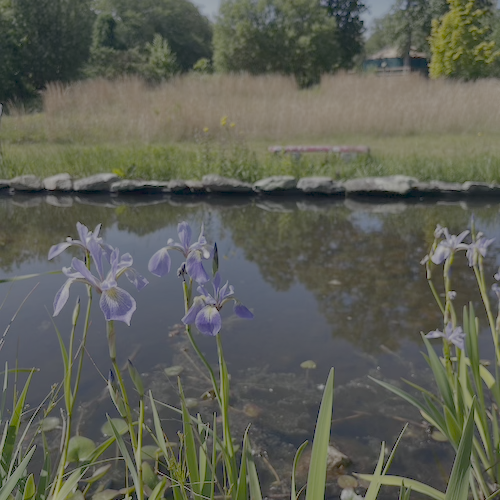
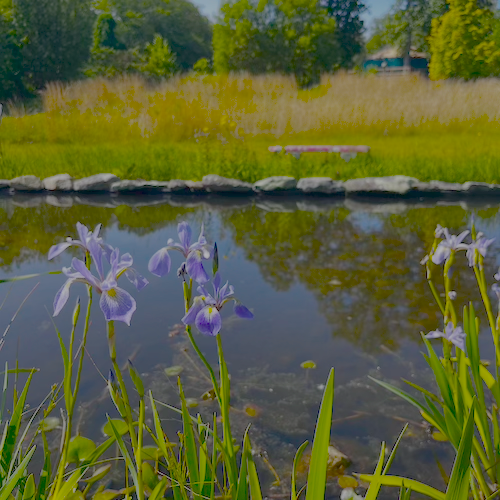
updated events carousel images

diff --git a/_includes/events-carousel.html b/_includes/events-carousel.html
@@ -27,33 +27,31 @@
                     <div class="carousel-inner">
                         <div class="carousel-item active">
                             <img src=
-"https://media.geeksforgeeks.org/wp-content/uploads/20240308154939/html-(1).jpg"
+"{{ site.baseurl }}/assets/img/events/events-carousel/e1.jpg"
                                 class="d-block w-100" 
                                  alt="Slide 1">
                         </div>
 
                         <div class="carousel-item">
                             <img src=
-"https://media.geeksforgeeks.org/wp-content/uploads/20240308154940/js-(1).jpg"
+"{{ site.baseurl }}/assets/img/events/events-carousel/e2.jpg"
                                 class="d-block w-100" 
                                  alt="Slide 2">
                         </div>
 
                         <div class="carousel-item">
                             <img src=
-"https://media.geeksforgeeks.org/wp-content/uploads/20240308154942/web-(1).jpg"
+"{{ site.baseurl }}/assets/img/events/events-carousel/e3.jpg"
                                 class="d-block w-100" 
                                  alt="Slide 4">
                         </div>
 
                         <div class="carousel-item">
                             <img src=
-"https://media.geeksforgeeks.org/wp-content/uploads/20240308154945/web2-(1).jpg"
+"{{ site.baseurl }}/assets/img/events/events-carousel/e4.png"
                                 class="d-block w-100" 
                                  alt="Slide 3">
                         </div>
-
-
                     </div>
                     <button class="carousel-control-prev" 
                             type="button" 

diff --git a/_includes/services.html b/_includes/services.html
@@ -16,7 +16,7 @@
 	  {% for service in site.data.sitetext[site.locale].services.list %}
         <div class="col-md-4">
           <span class="fa-stack fa-4x">
-            <a href="{{ service.link | absolute_url }}">
+            <a href="{{ service.link }}">
             <img class="rounded-circle img-fluid" src="{{ service.icon | absolute_url }}" alt="placeholder image for service">
           </span>
           <h4 style="padding-top:20px;" class="service-heading">{{ service.title | markdownify }}</h4>
@@ -48,8 +48,6 @@
         <div class="fa-stack fa-4x">
           <img class="rounded-circle img-fluid" src="{{ service.icon | absolute_url }}" alt="placeholder image for service">
         </div>
-      </a>
-      <a href="{{ service.link }}">
         <h4 class="service-heading">{{ service.title | markdownify }}</h4>
       </a>
         {% if service.desc %}<div class="text-muted">{{ service.desc | markdownify }}</div>{% endif %}

diff --git a/_includes/spaces.html b/_includes/spaces.html
@@ -21,7 +21,7 @@
         <div class="col-md-4">
           <a href="{{ space.link }}">
           <span class="fa-stack fa-4x">
-            <a href="{{ space.link | absolute_url }}">
+            <a href="{{ space.link }}">
             <img class="rounded-circle img-fluid" src="{{ space.icon | absolute_url }}" alt="placeholder image for service">
             </a>
           </span>

diff --git a/_includes/about.html b/_includes/about.html
@@ -10,6 +10,7 @@
     <div class="row">
       <div class="col-lg-8 mx-auto text-center">
         <div class="large text-muted">{{ site.data.sitetext[site.locale].about.body | markdownify }}</div>
+        <img height="{{ site.logo.height | default: 250 }}" src="{{ site.baseurl }}{{ site.big-logo }}"/>
       </div>
     </div>
 <!--added -->

diff --git a/pages/events.md b/pages/events.md
@@ -5,6 +5,7 @@ description:
 image: 
 permalink: /events/
 imagefolder:
+imagefolder: events-carousel
 ---
 
 # Events
